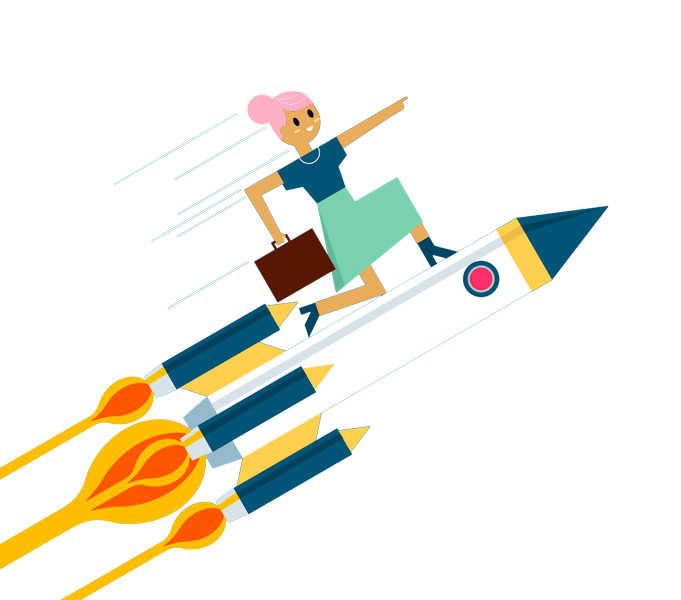
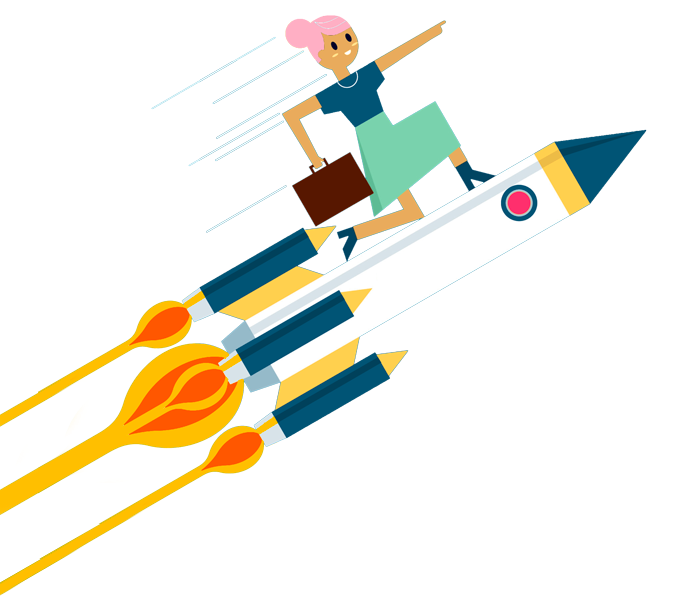
adjust rocket img

Changed region(s): [[0.0, 0.0, 0.9574, 1.0], [0.2779, 0.1202, 0.3088, 0.1503], [0.1853, 0.2705, 0.2162, 0.3005]]

diff --git a/src/pages/Landing/Landing.js b/src/pages/Landing/Landing.js
@@ -96,19 +96,19 @@ const SalarySection = styled(Section)`
     position: absolute;
     top: 0;
     transform-origin: left center;
-    transform: scale(1.1) translate(0vw, -25%);
-    width: 681px;
+    transform: scale(1) translate(-5vw, -20%);
+    width: 639px;
   }
 
   @media only screen and (max-width: 1200px) {
     ::after {
-      transform: scale(0.8) translate(0, -45%);
+      transform: scale(0.9) translate(-5vw, -30%);
     }
   }
 
   @media only screen and (max-width: 950px) {
     ::after {
-      transform: scale(0.7) translate(0, -55%);
+      transform: scale(0.8) translate(-5vw, -40%);
     }
   }
 `;
